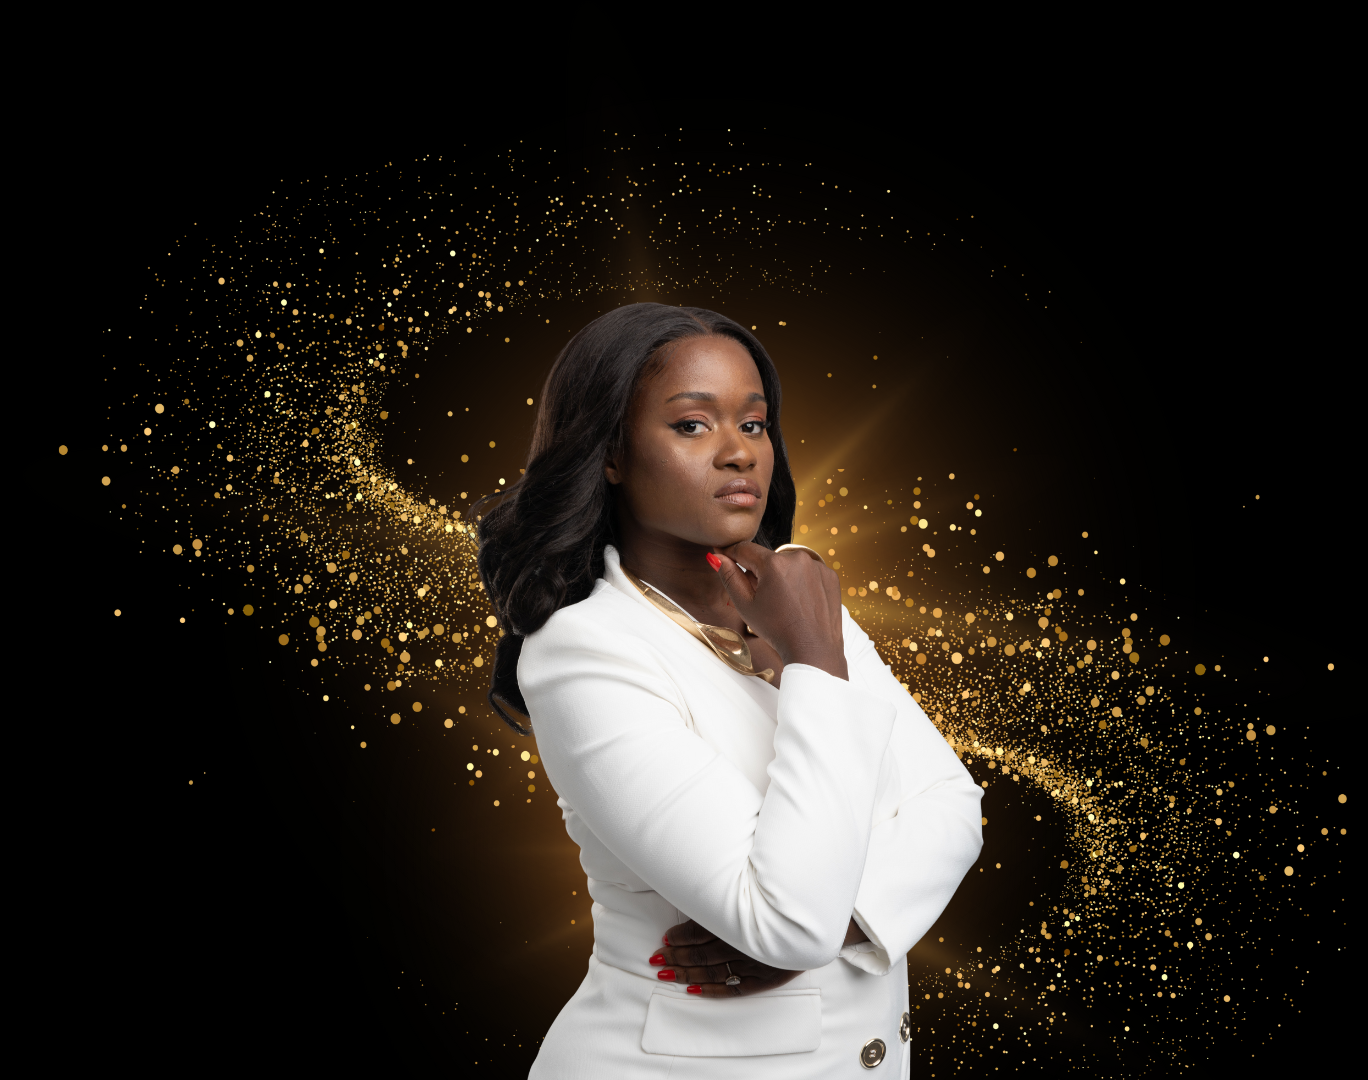
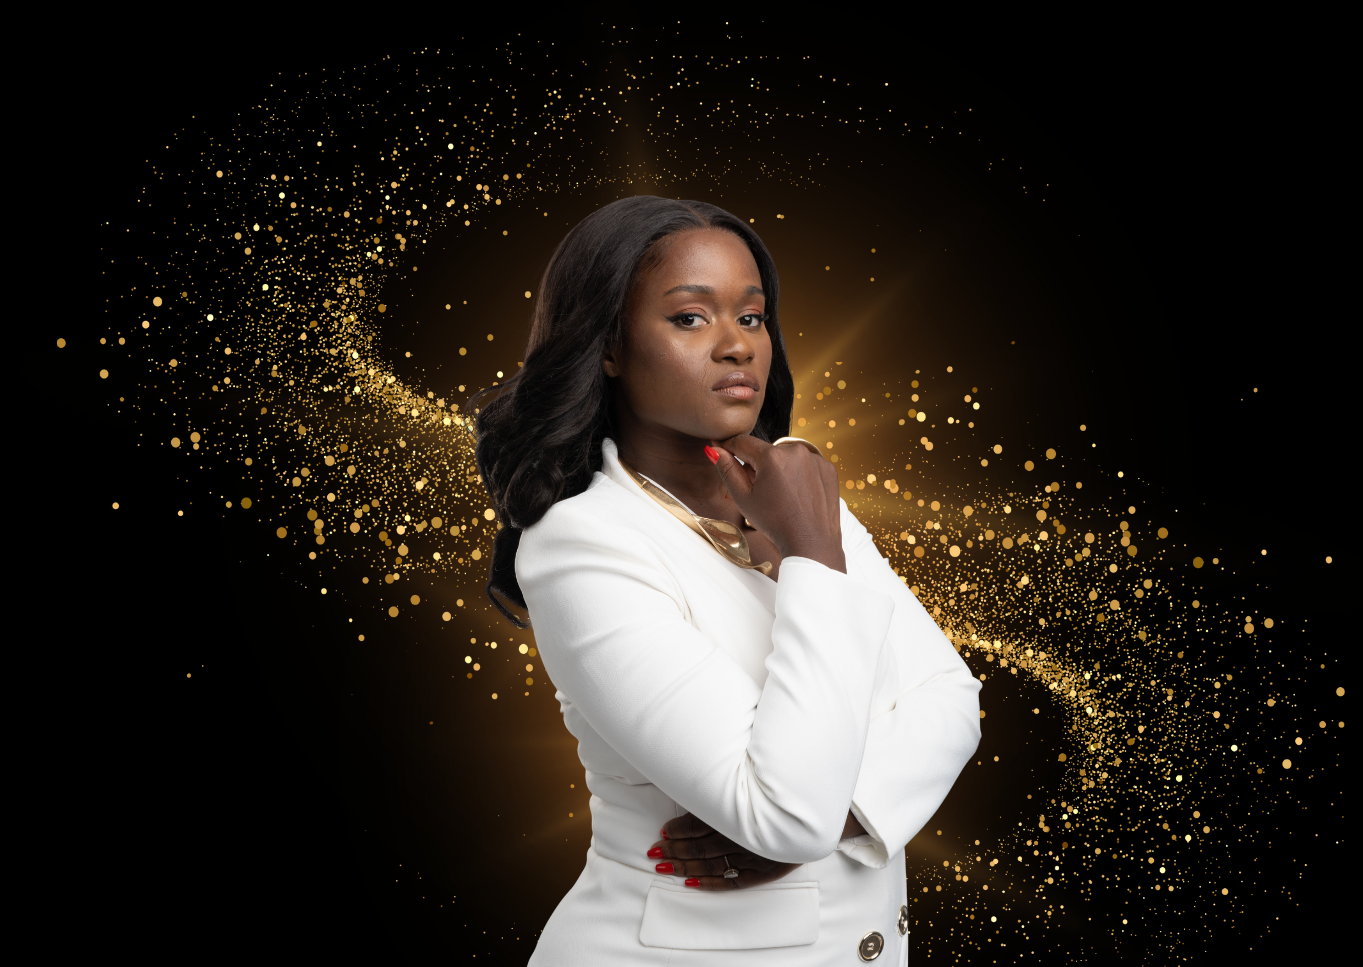
[ADD]google sheet function

diff --git a/templates/index.html b/templates/index.html
@@ -76,6 +76,12 @@
           </div>
           <div class="col-5">
             <img
+              class="main_img"
+              alt="Dr.Wilsa Academia Saude de Sucesso"
+              src="/static/img/_DSC9067.jpg"
+            />
+            <img
+              class="secoundary_img"
               alt="Dr.Wilsa Academia Saude de Sucesso"
               src="/static/img/Dr_Wilsa_Mentoria.png"
             />
@@ -211,7 +217,7 @@
           </p>
 
           <div class="form_section">
-            <div class="header_form">
+            <div class="header_form more_top_espace_form">
               <h5>
                 <i class="bi bi-camera-video-fill"> Ao vivo pelo Zoom</i
                 ><br /><i class="bi bi-calendar3"> Segunda-feira 15/07</i
@@ -258,7 +264,7 @@
         </div>
         <div class="container">
           <div class="form_section">
-            <div class="header_form">
+            <div class="header_form more_top_espace_form">
               <h5>
                 <i class="bi bi-camera-video-fill"> Ao vivo pelo Zoom</i
                 ><br /><i class="bi bi-calendar3"> Segunda-feira 15/07</i

diff --git a/static/style/main.css b/static/style/main.css
@@ -62,6 +62,15 @@ h1 {
   }
 }
 
+.main_img {
+  display: block;
+  border: #ce8705 1px solid;
+}
+
+.secoundary_img {
+  display: none;
+}
+
 img {
   width: 100%;
   border-radius: 30px;
@@ -86,23 +95,13 @@ i {
 form {
   width: 90%;
   margin: 0 auto;
+  margin-top: 10%;
 }
 .form-control {
   margin: 10px auto;
   width: 70%;
   border: solid 2px #d2ac67;
 }
-
-/*
-.btn {
-
-  display: block;
-  margin: 0 auto;
-  width: 70%;
-  color: white;
-  background: #d2ac67;
-}
-*/
 
 .btn-success {
   display: block;
@@ -122,6 +121,9 @@ form {
 }
 .btn-success:hover {
   box-shadow: 0px 0px 40px yellowgreen;
+}
+.btn_firs_form {
+  margin-bottom: 0px;
 }
 
 .section_2 img {

diff --git a/static/style/media.css b/static/style/media.css
@@ -31,6 +31,13 @@
     width: 90%;
     margin: 0 auto;
   }
+  .main_img {
+    display: none;
+  }
+
+  .secoundary_img {
+    display: block;
+  }
 }
 /*980*/
 
@@ -49,5 +56,8 @@
   }
   .conteiner_msg {
     width: 95%;
+  }
+  .more_top_espace_form {
+    margin-top: 75px;
   }
 }

diff --git a/app.py b/app.py
@@ -1,7 +1,7 @@
 #Python 3.12.3
 import os, csv
 from datetime import datetime
-from flask import Flask, render_template,redirect,url_for, request
+from flask import Flask, render_template,redirect,url_for, request 
 import openpyxl.workbook
 from form import FormSubscribe
 from secret import SECRET_KEY
@@ -9,6 +9,9 @@ from flask_mail import Mail, Message
 import my_secret_data
 from twilio.rest import Client
 from openpyxl import Workbook, load_workbook
+import gspread
+from google.oauth2.service_account import Credentials
+
 
 app = Flask(__name__)
 app.config['SECRET_KEY'] = SECRET_KEY
@@ -19,13 +22,14 @@ app.config['MAIL_USE_SSL'] = True
 app.config['MAIL_USERNAME'] = my_secret_data.MAIL_USERNAME
 app.config['MAIL_PASSWORD'] = my_secret_data.MAIL_PASSWORD
 app.config['MAIL_DEFAULT_SENDER'] = my_secret_data.MAIL_SENDER
+
+
 mail=Mail(app)
 
 
 account_sid = my_secret_data.ACCOUNT_SID
 auth_token = my_secret_data.AUTH_TOKEN
 client = Client(account_sid, auth_token)
-
 
 countries_list = {
     "Afghanistan": "+93",
@@ -227,8 +231,23 @@ countries_list = {
 
 BASE_DIR = os.path.abspath(os.path.dirname(__file__))
 users_csv_file_path = os.path.join(BASE_DIR, 'users.csv')
+credentials_file_path = os.path.join(BASE_DIR, 'credentials.json')
 users_xlsx_file_path = BASE_DIR + '/users.xlsx'
 field_names = ['Date','Name', 'Country', 'Whatsapp']
+
+
+def connect_and_insert_new_data_into_google_sheets(new_rec:list):
+    scopes = [
+    "https://www.googleapis.com/auth/spreadsheets"
+]
+    creds = Credentials.from_service_account_file('credentials.json', scopes=scopes)
+
+    client = gspread.authorize(creds)
+    SHEET_ID = "1957zv5nNuQyZ3W4DoM41ThCyJaoWQGqJArKlNiCQJkM"
+    sheet = client.open_by_key(SHEET_ID)
+
+    values_list = sheet.sheet1.append_row(new_rec)
+    
 
 def create_exel_file_users():
     wb = Workbook()
@@ -268,6 +287,7 @@ def add_new_rec_to_xlsx(new_rec_xl):
     if not is_exist_whatsapp_number(new_rec_xl[-1]):
         sheet.append(new_rec_xl)
         wb.save('users.xlsx')
+        connect_and_insert_new_data_into_google_sheets(new_rec_xl)
     else:
         print(f"{new_rec_xl[-1]} ALREADY EXISTS!!!")
         return True
@@ -369,3 +389,8 @@ def get_couontry_code(country):
 
 if __name__ == '__main__':
     app.run(debug=False)
+
+
+
+#todo gravar o users no disc com o nome Users_mentoria
+#todo media a partir de 900px para baixo mudar a primeira imagem de dotora

diff --git a/form.py b/form.py
@@ -206,4 +206,4 @@ class FormSubscribe(FlaskForm):
     full_name = StringField('Full Name', validators=[DataRequired()], render_kw={"placeholder": "Nome completo", 'class':'form-control'})
     countries = SelectField('Countries', choices=[(country, f"{country} ({code})") for country, code in countries_list.items()], validators=[DataRequired()], render_kw={"placeholder": "Selecione o país", 'class':'form-control'})
     wtsapp = StringField('WhatsApp', validators=[DataRequired()], render_kw={"placeholder": "WhatsApp (com indicativo)", 'class':'form-control'})
-    submit = SubmitField('Inscreve-te já',render_kw={'class':'btn btn-success'})
+    submit = SubmitField('Inscreve-te já',render_kw={'class':'btn btn_firs_form btn-success'})
